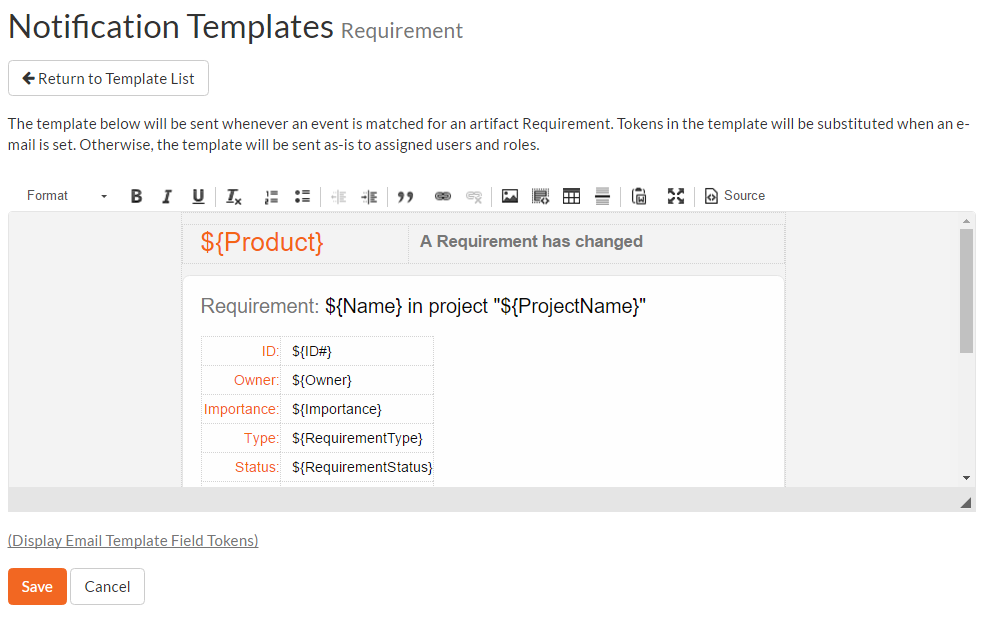
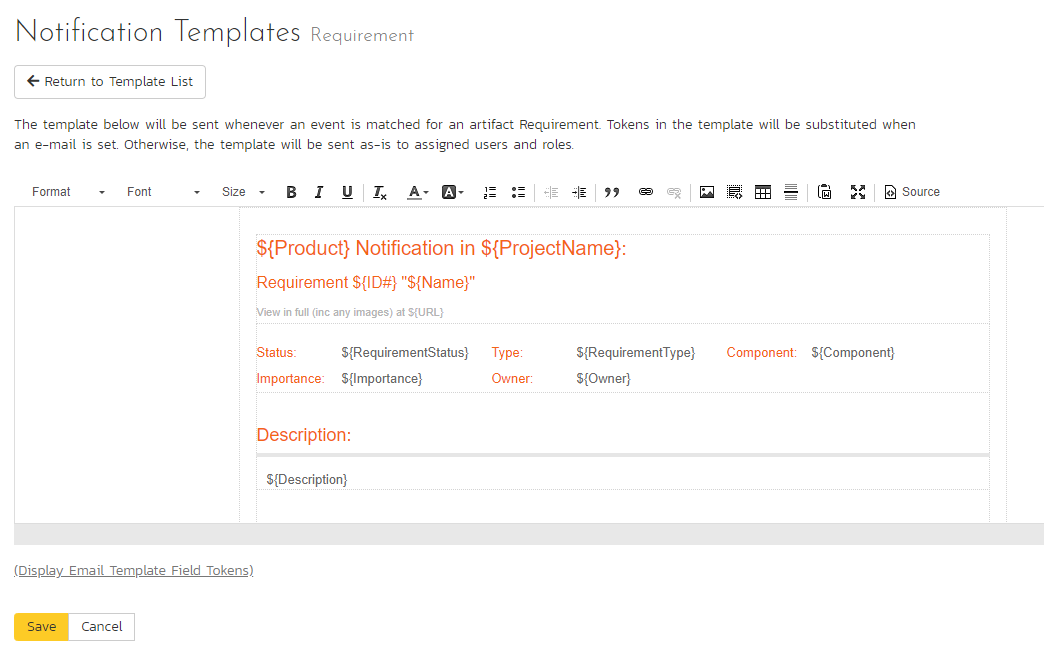
Improve included sample templates

diff --git a/docs/Spira-Administration-Guide/System-Workspaces.md b/docs/Spira-Administration-Guide/System-Workspaces.md
@@ -174,3 +174,11 @@ To add a new template to the system, you need to create a new template when crea
 
 On this screen you can edit the name, description, program, and active status. Once you have made the necessary changes, click the "Save" button to commit them. If you decide that you want to ignore the changes, click the "Cancel" button and the changes will be discarded.
 
+### Included Templates
+SpiraPlan ships with four different templates. Together these will cover most of your needs. You can easily clone and customize one of these templates to meet your exact needs. Or you can start from scratch. Below is a brief description of each of the includes templates:
+
+- **Default**: This basic default template matches the one the system automatically generates when you create a completely new template. It is a good basis for customizing your template if no other template fit your needs
+- **Library Information System (Sample)**: This template is designed to work with the sample product Library Information System. The template showcases a number of different parts of the system, through that product. It is not designed to be used for real life products.
+- **Regulated Industries**: This template is designed specifically for products that are developed in a regulated environment. For example life sciences. The workflows have been configured to help you meet requirements in your work, such as those arising from FDA 21 CFR Part 11. Workflows include the use of electronic signatures for key stages of sign-off; limit who can transition an artifact between statuses, and manages which fields are disabled or required at each workflow step.
+- **Flexible**: This template is designed to alllow users to be as unconstrained from workflow requirements as possible. All relevant fields are available and editable (and not required) at all times. Active statuses are streamlined. This template should be used only for times when process controls are not required or are very lightweight.
+

diff --git a/docs/About/release-notes-v6.md b/docs/About/release-notes-v6.md
@@ -29,8 +29,8 @@
         - Implement CSRF Anti-Forgery Tokens on Postback Pages [RQ:2959]
         - Implement CSRF Anti-Forgery Tokens on WCF Ajax Services [RQ:2960]
     
-    * Improve included sample templates
-        - Update and refresh notification event subject lines and notification templates [RQ:2843]
+    * Improve included [sample templates](../../Spira-Administration-Guide/System-Workspaces/#included-templates)
+        - Update and refresh notification event subject lines and [notification templates](../../Spira-Administration-Guide/Template-Notifications/#notification-templates) [RQ:2843]
         - A new "Regulated Industries" Template provides out-the-box best practice for workflows across all artifacts [RQ:2825]
         - A new "Lightweight" template lets users work in a very streamlined way with effectively no workflow constraints [RQ:2823]
 
